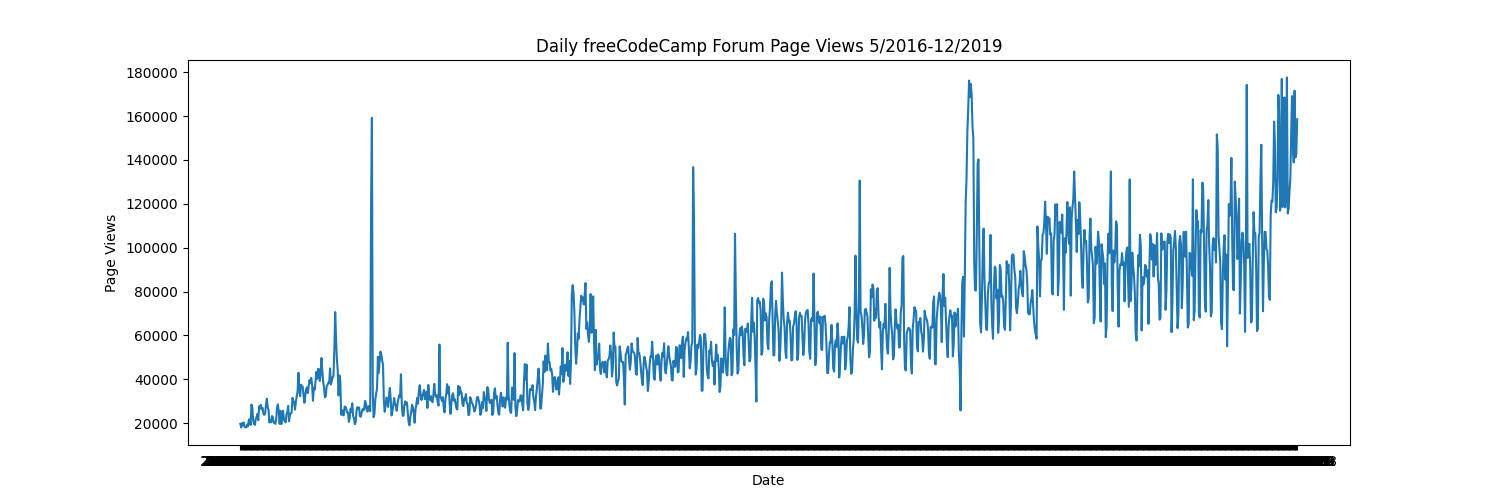
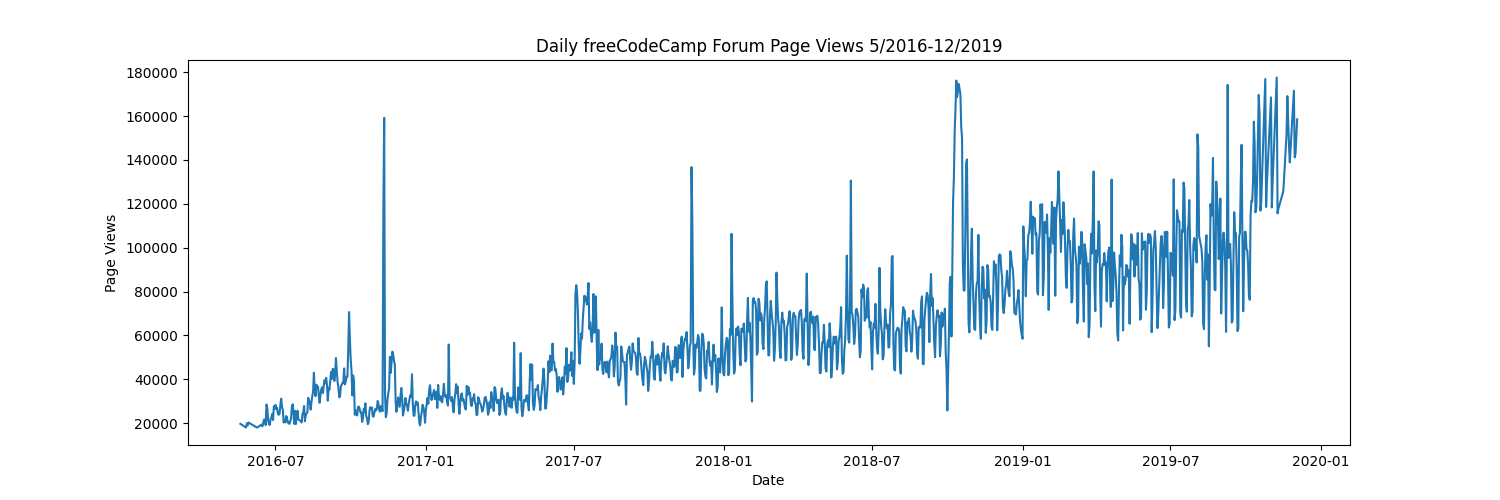
feat: Bar plot, box plot complete

Changed region(s): [[0.1227, 0.15, 0.8893, 0.93]]

diff --git a/time_series_visualizer.py b/time_series_visualizer.py
@@ -6,11 +6,13 @@ register_matplotlib_converters()
 
 # Import data (Make sure to parse dates. Consider setting index column to 'date'.)
 df = pd.read_csv('fcc-forum-pageviews.csv', index_col='date')
-print(df)
+df.index = pd.to_datetime(df.index)
+
+#print(df)
 
 # Clean data
 df = df[(df['value'] >= df['value'].quantile(0.025) ) & (df['value'] <= df['value'].quantile(0.975))]
-print(df)
+#print(df)
 
 
 def draw_line_plot():
@@ -26,33 +28,75 @@ def draw_line_plot():
     fig.savefig('line_plot.png')
     return fig
 
+#draw_line_plot()
+
 
 def draw_bar_plot():
     # Copy and modify data for monthly bar plot
     df_bar = df.copy()
-    df['year'] = df.index.year
-    print(df['year'])
+    df_bar['year'] = df_bar.index.year
+    df_bar['month'] = df_bar.index.month_name()
+    
+
+    
     # Draw bar plot
+    df_bar = df_bar.groupby(['year', 'month'])['value'].mean().unstack()
 
+    df_bar = df_bar.sort_index(axis=1)
 
+    fig, ax = plt.subplots(figsize=(12, 6))
 
+    df_bar.plot(kind='bar', ax=ax)
 
+    ax.set_xlabel('Years')
+
+    ax.set_ylabel('Average Page Views')
+
+    plt.tight_layout()
+
+    plt.show()
 
     # Save image and return fig (don't change this part)
-    #fig.savefig('bar_plot.png')
-    #return fig
+    fig.savefig('bar_plot.png')
+    return fig
 
-draw_bar_plot()
+#draw_bar_plot()
 
 def draw_box_plot():
     # Prepare data for box plots (this part is done!)
     df_box = df.copy()
     df_box.reset_index(inplace=True)
     df_box['year'] = [d.year for d in df_box.date]
-    df_box['month'] = [d.strftime('%b') for d in df_box.date]
+    df_box['month'] = [d.strftime('%B') for d in df_box.date]
+
+    ordered_months = [
+        'January', 'February', 'March', 'April', 'May', 'June',
+        'July', 'August', 'September', 'October', 'November', 'December'
+    ]
+
+    df_box['month'] = pd.Categorical(df_box['month'], categories=ordered_months, ordered=True)
+
 
     # Draw box plots (using Seaborn)
+    fig, axes = plt.subplots(1, 2, figsize=(14, 6))
+    sns.boxplot(x='year', y='value', data=df_box, ax=axes[0], color='white', fliersize=1, linewidth=1)
+    axes[0].set_title('Year-wise Box Plot (Trend)')
+    axes[0].set_xlabel('Year')
+    axes[0].set_ylabel('Page Views')
 
+
+
+    sns.boxplot(x='month', y='value', data=df_box, ax=axes[1],  color='white', fliersize=1, linewidth=1) 
+    axes[1].set_title('Month-wise Box Plot (Seasonality)')
+    axes[1].set_xlabel('Month')
+    axes[1].set_ylabel('Page Views')
+    axes[1].tick_params(axis='x', rotation=45)
+
+    plt.tight_layout()
+
+
+
+    plt.show()
 
 
 
@@ -60,3 +104,5 @@ def draw_box_plot():
     # Save image and return fig (don't change this part)
     fig.savefig('box_plot.png')
     return fig
+
+draw_box_plot()
